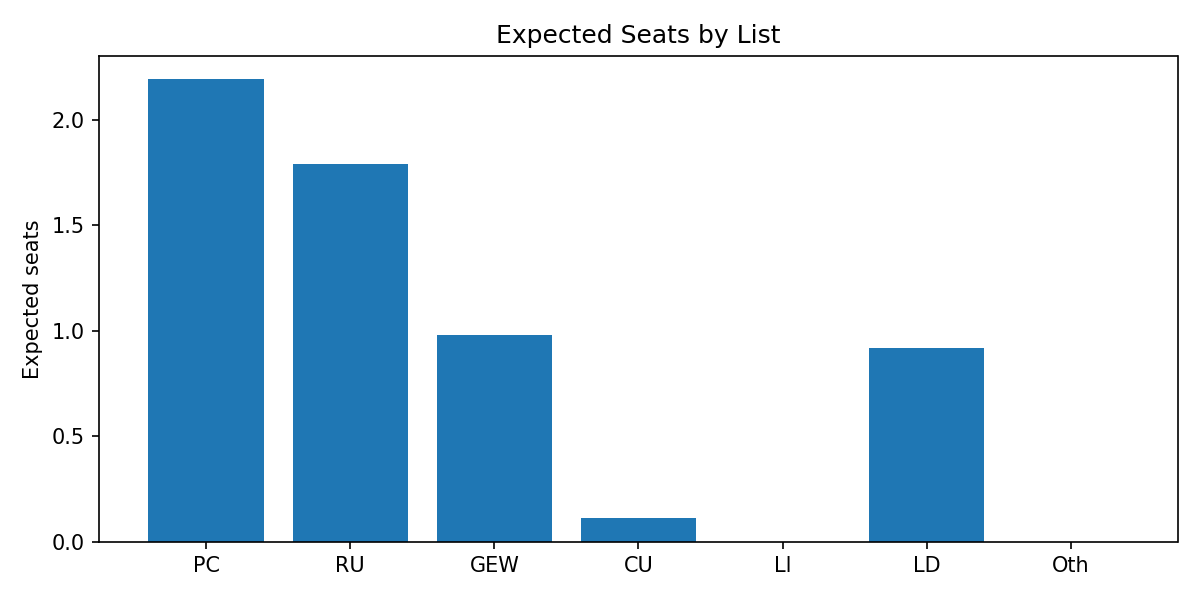
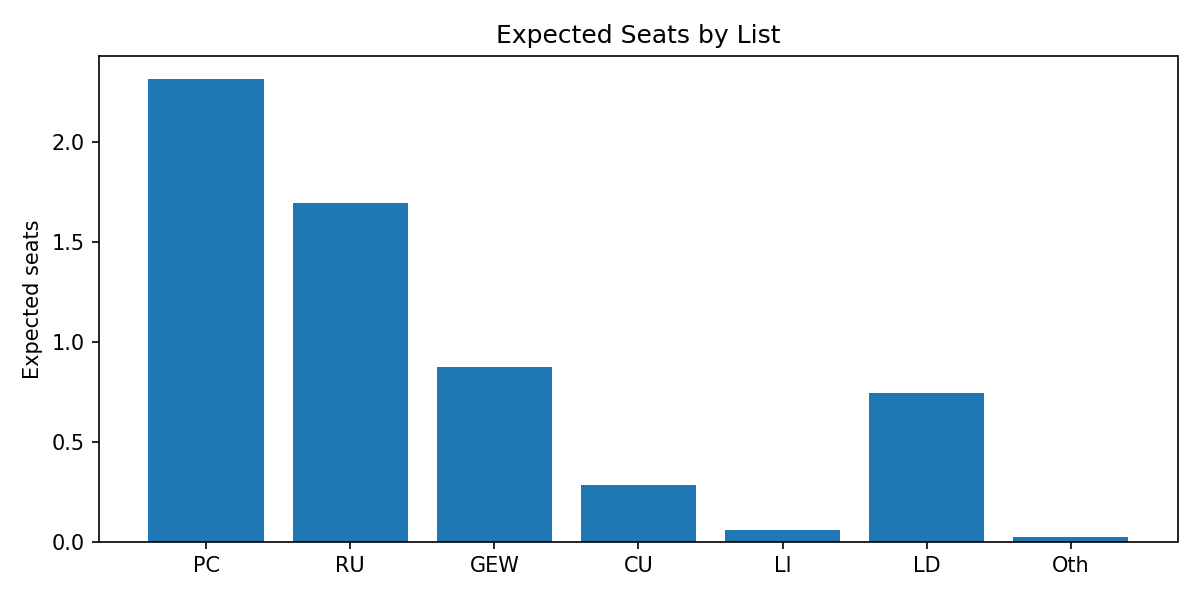
Monday thinking

diff --git a/simulate_seats.py b/simulate_seats.py
@@ -5,7 +5,7 @@ import numpy as np
 
 LISTS = ["PC", "RU", "GEW", "CU", "Ll", "LD", "Oth"]
 BASE_SHARES = [0.304, 0.236, 0.147, 0.088, 0.052, 0.136, 0.037]
-CONCENTRATION = 200
+CONCENTRATION = 50
 SWING_SD = 0.03
 SWING_RHO = -0.5
 
